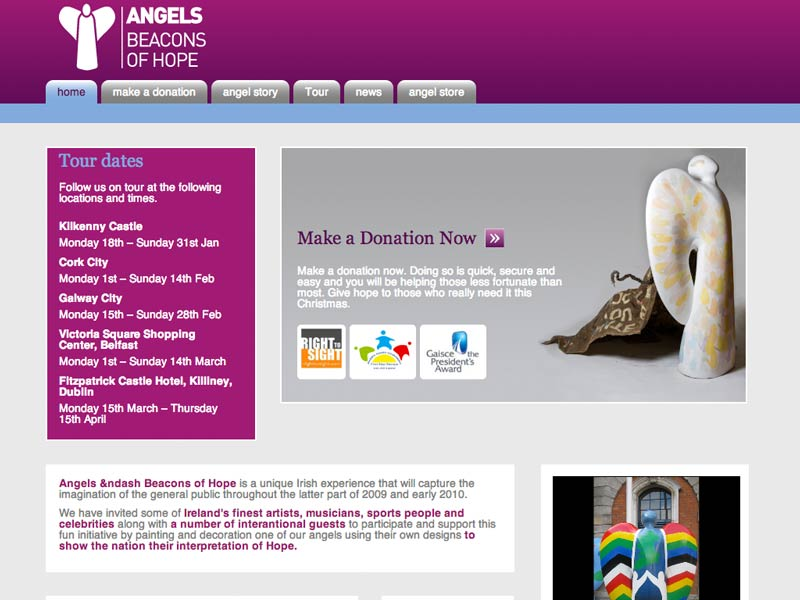
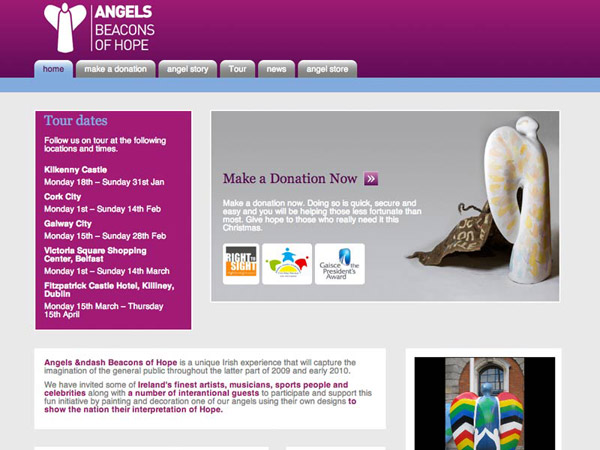
Resized all web portfolio images. Added mobile work to portfolio

Changed region(s): [[0.39, 0.56, 0.42, 0.6222], [0.21, 0.0622, 0.24, 0.1244]]

diff --git a/assets/css/stylesheets/screen.css b/assets/css/stylesheets/screen.css
@@ -320,15 +320,16 @@ section a:visited {
 /* line 214, ../sass/screen.scss */
 #portfolio div figure {
   position: relative;
+  width: 800px;
   float: left;
   margin: 10px 0px 0px 0px;
   z-index: 2;
 }
-/* line 219, ../sass/screen.scss */
+/* line 220, ../sass/screen.scss */
 #portfolio div figure:nth-of-type(1) {
   display: inline;
 }
-/* line 222, ../sass/screen.scss */
+/* line 223, ../sass/screen.scss */
 #portfolio div figure img {
   position: relative;
   display: inline;
@@ -340,7 +341,7 @@ section a:visited {
   height: auto;
   z-index: 1;
 }
-/* line 233, ../sass/screen.scss */
+/* line 234, ../sass/screen.scss */
 #portfolio div figure figcaption {
   -webkit-transition: 0.3s ease-in-out;
   -moz-transition: all 0.3s ease-in-out 0s;
@@ -355,14 +356,14 @@ section a:visited {
   background-color: #000;
   z-index: 5;
 }
-/* line 244, ../sass/screen.scss */
+/* line 245, ../sass/screen.scss */
 #portfolio div figure figcaption h6 {
   font-size: 1.1em;
   text-shadow: none;
   margin: 10px 0px 0px 12.5%;
 }
 
-/* line 254, ../sass/screen.scss */
+/* line 255, ../sass/screen.scss */
 footer {
   display: inline;
   float: left;

diff --git a/assets/css/sass/screen.scss b/assets/css/sass/screen.scss
@@ -213,6 +213,7 @@ section{
         @include animated(0.5s);
         figure{
             position: relative;
+            width: 800px;
             float: left;
             margin: 10px 0px 0px 0px;
             z-index: 2;

diff --git a/includes/portfolio.php b/includes/portfolio.php
@@ -3,7 +3,50 @@
         /*
          *  Mobile work
          */
-        
+        new portfolioitem(
+            'The Irish Times', 
+            'http://tinyurl.com/bfg42q9',
+            'mobile/irishtimes.jpg', 
+            'iPhone and Android version of the Irish Times news app',
+            'solution',
+            'mobile',
+            array(
+                
+            )
+        ),
+        new portfolioitem(
+            'NewsWhip', 
+            'http://tinyurl.com/aoqs6ps',
+            'mobile/newswhip.jpg', 
+            'Cross platform HTML5 app for NewsWhip',
+            'solution',
+            'mobile',
+            array(
+                
+            )
+        ),
+        new portfolioitem(
+            'Three Football', 
+            'http://tinyurl.com/apkyk34',
+            'mobile/threefootball.jpg', 
+            'Cross platform HTML5 app for Three Football',
+            'solution',
+            'mobile',
+            array(
+                
+            )
+        ),
+        new portfolioitem(
+            'Photography', 
+            false,
+            'mobile/photography.jpg', 
+            'Native app pulling my photos from flickr',
+            'solution',
+            'mobile',
+            array(
+                
+            )
+        ),
         
         /*
          *  Web work
@@ -109,7 +152,7 @@
         {
     ?>
     <figure data-index="<?=$index?>">
-        <img src="<?=$base . '/assets/portfolio/' . $portfolio_item->get('image_path'); ?>" width="800" height="600" alt="<?=$portfolio_item->get('title'); ?>" />
+        <img src="<?=$base . '/assets/portfolio/' . $portfolio_item->get('image_path'); ?>" width="600" height="450" alt="<?=$portfolio_item->get('title'); ?>" />
         <figcaption data-showing=false>
             <h6>
                 <?=$portfolio_item->get('title');?>
